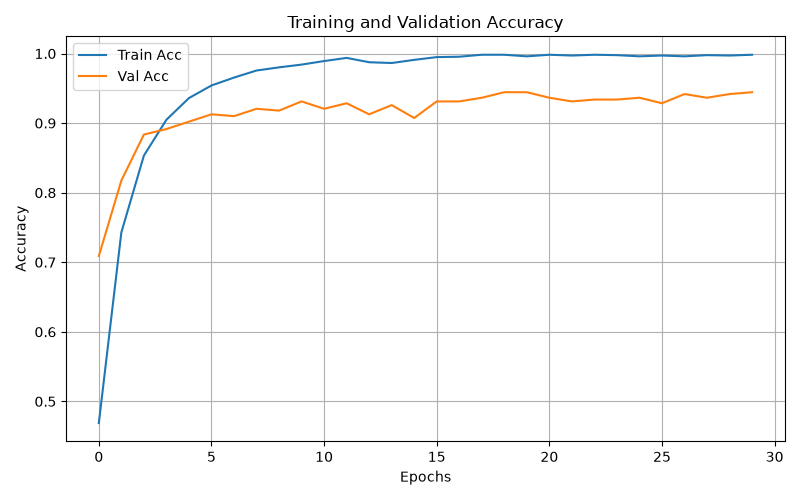
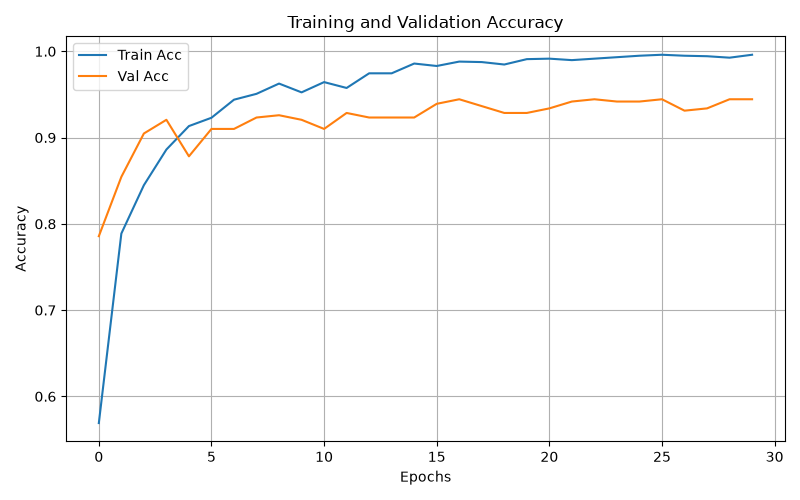
Add seeded training runs and MLflow registry champion promotion; sync eval docs to new champion

diff --git a/main.py b/main.py
@@ -1,4 +1,5 @@
 import os
+import shutil
 import torch
 import optuna
 import torch.nn as nn
@@ -7,17 +8,40 @@ import csv
 import numpy as np
 import mlflow
 import mlflow.pytorch
+from mlflow import MlflowClient
+from mlflow.exceptions import MlflowException
 from sklearn.metrics import classification_report
 
 from hpo import build_objective
 from train import train, val_test
 from utils.visualization import plot_train_val, plot_confusion_matrix
 from utils.datasets import get_trashnet_train, get_trashnet_test, get_class_weights
+from utils.seed import set_seed
 from backend.models.resnet18 import get_model
 
 DEVICE = "cuda"       # falls back to CPU automatically if unavailable
 DATA_ROOT = "./data"
 NUM_WORKERS = 4
+SEED = 42
+REGISTRY_NAME = "trashnet-resnet18"
+CHAMPION_ALIAS = "champion"
+# Deployment file the backend/HF push actually read; only overwritten if this
+# run's test_acc beats the current champion (see promotion logic below).
+CHAMPION_CKPT = "checkpoints/best_resnet18_trashnet.pth"
+# Scratch checkpoint for this run alone — every run trains/tests against its
+# own copy so a run that doesn't win champion can't clobber the deployed one.
+RUN_CKPT = "checkpoints/_run_best.pth"
+
+# Same run-scoped-vs-champion split for the plots/log that outputs/ exposes —
+# only a promoted run's copies become the ones people actually look at.
+RUN_CM_PATH = "outputs/_run_confusion_matrix.png"
+RUN_LOSS_PATH = "outputs/_run_loss.png"
+RUN_ACC_PATH = "outputs/_run_acc.png"
+RUN_LOG_CSV = "outputs/_run_training_log.csv"
+CHAMPION_CM_PATH = "outputs/trashnet_confusion_matrix.png"
+CHAMPION_LOSS_PATH = "outputs/trashnet_loss.png"
+CHAMPION_ACC_PATH = "outputs/trashnet_acc.png"
+CHAMPION_LOG_CSV = "outputs/trashnet_training_log.csv"
 
 
 def get_predictions(model, loader, device):
@@ -41,6 +65,7 @@ def main():
     os.makedirs("outputs", exist_ok=True)
     os.makedirs("checkpoints", exist_ok=True)
 
+    set_seed(SEED)
     device = torch.device(DEVICE if torch.cuda.is_available() else "cpu")
 
     # Initial loaders to trigger the split and get class weights;
@@ -70,8 +95,11 @@ def main():
         device=device,
         data_root=DATA_ROOT,
         num_workers=NUM_WORKERS,
+        seed=SEED,
     )
-    study = optuna.create_study(direction="maximize")
+    study = optuna.create_study(
+        direction="maximize", sampler=optuna.samplers.TPESampler(seed=SEED)
+    )
     study.optimize(objective, n_trials=n_hpo_trials)
 
     print("Best HPO trial:")
@@ -81,6 +109,9 @@ def main():
     best_params = study.best_trial.params
 
     # ---- Final training with the best hyperparameters found above ----
+    # Re-seed so the final run's init/data order don't depend on how much
+    # randomness the HPO trials above consumed.
+    set_seed(SEED)
     train_loader, val_loader = get_trashnet_train(
         data_root=DATA_ROOT, batch_size=best_params["batch_size"], num_workers=NUM_WORKERS
     )
@@ -112,7 +143,7 @@ def main():
 
         # Train and validate the model
         best_val_acc = -1
-        log_file = "./outputs/trashnet_training_log.csv"
+        log_file = RUN_LOG_CSV
         with open(log_file, "w", newline="") as f:
             writer = csv.writer(f)
             writer.writerow(["epoch", "train_loss", "train_acc", "val_loss", "val_acc"])
@@ -140,13 +171,13 @@ def main():
 
                 if val_acc > best_val_acc:
                     best_val_acc = val_acc
-                    torch.save(model.state_dict(), "checkpoints/best_resnet18_trashnet.pth")
+                    torch.save(model.state_dict(), RUN_CKPT)
 
                 scheduler.step()
 
         # Test the model
         model.load_state_dict(
-            torch.load("checkpoints/best_resnet18_trashnet.pth",
+            torch.load(RUN_CKPT,
                        map_location=device,
                        weights_only=True)
         )
@@ -157,10 +188,10 @@ def main():
         DISPLAY_NAMES = {"trash": "General Waste"}
         classes = [DISPLAY_NAMES.get(c, c) for c in train_loader.dataset.classes]
         y_true, y_pred = get_predictions(model, test_loader, device)
-        cm_save_path = "./outputs/trashnet_confusion_matrix.png"
+        cm_save_path = RUN_CM_PATH
         plot_confusion_matrix(y_true, y_pred, classes, cm_save_path)
-        loss_path = "./outputs/trashnet_loss.png"
-        acc_path = "./outputs/trashnet_acc.png"
+        loss_path = RUN_LOSS_PATH
+        acc_path = RUN_ACC_PATH
         plot_train_val(load_path=log_file, loss_path=loss_path, acc_path=acc_path)
 
         print(f"\n Test Acc: {test_acc:.4f}")
@@ -174,13 +205,51 @@ def main():
         mlflow.log_artifact(cm_save_path)
         mlflow.log_artifact(loss_path)
         mlflow.log_artifact(acc_path)
-        mlflow.log_artifact("checkpoints/best_resnet18_trashnet.pth")
+        mlflow.log_artifact(RUN_CKPT)
         # MLflow 3.x's default 'pt2' serialization needs tracing/signature
         # gymnastics; serialization_format="pickle" avoids that.
         input_example = torch.randn(1, 3, 224, 224, device=device)
-        mlflow.pytorch.log_model(
+        model_info = mlflow.pytorch.log_model(
             model, name="model", input_example=input_example, serialization_format="pickle"
         )
+
+        # ---- Model registry: register this run as a new version, but only
+        # move the "champion" alias if this run's test_acc beats whoever
+        # currently holds it. The champion alias is what should get pushed
+        # to HF Hub (still a manual/separate step, see README) — this is
+        # what would have stopped an accidental downgrade like the one this
+        # project hit manually before this was automated: local-only, since
+        # mlflow.db/mlruns/ aren't synced anywhere the deployed app can read. ----
+        client = MlflowClient()
+        model_version = mlflow.register_model(model_info.model_uri, REGISTRY_NAME)
+
+        champion_acc = None
+        try:
+            champion = client.get_model_version_by_alias(REGISTRY_NAME, CHAMPION_ALIAS)
+        except MlflowException as e:
+            # Only a missing alias means "no champion yet" — anything else
+            # (DB locked, etc.) should surface instead of silently promoting.
+            if e.error_code != "INVALID_PARAMETER_VALUE":
+                raise
+        else:
+            champion_acc = client.get_run(champion.run_id).data.metrics.get("test_acc")
+
+        if champion_acc is None or test_acc > champion_acc:
+            client.set_registered_model_alias(REGISTRY_NAME, CHAMPION_ALIAS, model_version.version)
+            for run_path, champion_path in (
+                (RUN_CKPT, CHAMPION_CKPT),
+                (RUN_CM_PATH, CHAMPION_CM_PATH),
+                (RUN_LOSS_PATH, CHAMPION_LOSS_PATH),
+                (RUN_ACC_PATH, CHAMPION_ACC_PATH),
+                (RUN_LOG_CSV, CHAMPION_LOG_CSV),
+            ):
+                shutil.copyfile(run_path, champion_path)
+            print(f"Promoted v{model_version.version} to '{CHAMPION_ALIAS}' (test_acc={test_acc:.4f})")
+        else:
+            print(
+                f"v{model_version.version} (test_acc={test_acc:.4f}) did not beat "
+                f"'{CHAMPION_ALIAS}' (test_acc={champion_acc:.4f}) — alias and outputs/ left untouched"
+            )
 
 
 if __name__ == '__main__':

diff --git a/hpo.py b/hpo.py
@@ -6,6 +6,7 @@ import torch.optim as optim
 
 from train import train, val_test
 from utils.datasets import get_trashnet_train
+from utils.seed import set_seed
 from backend.models.resnet18 import get_model
 
 
@@ -17,6 +18,7 @@ def build_objective(
     device=None,
     data_root="data",
     num_workers=2,
+    seed=42,
 ):
     """
     Build an Optuna objective for fine-tuning ResNet18 on TrashNet.
@@ -40,6 +42,10 @@ def build_objective(
         lr = trial.suggest_float("lr", 1e-4, 3e-3, log=True)
         weight_decay = trial.suggest_float("weight_decay", 1e-5, 1e-2, log=True)
         batch_size = trial.suggest_categorical("batch_size", [16, 32, 64])
+
+        # Same seed every trial so comparisons isolate the hyperparameters'
+        # effect from random init/data-order noise.
+        set_seed(seed)
 
         with mlflow.start_run(run_name=f"trial-{trial.number}"):
             mlflow.log_params({

diff --git a/utils/seed.py b/utils/seed.py
@@ -1,0 +1,15 @@
+import random
+
+import numpy as np
+import torch
+
+
+def set_seed(seed=42):
+    """Seed python/numpy/torch RNGs and force cuDNN determinism, so a given
+    seed reproduces the same model init, data shuffling, and augmentation."""
+    random.seed(seed)
+    np.random.seed(seed)
+    torch.manual_seed(seed)
+    torch.cuda.manual_seed_all(seed)
+    torch.backends.cudnn.deterministic = True
+    torch.backends.cudnn.benchmark = False

diff --git a/README.md b/README.md
@@ -28,8 +28,8 @@ The system classifies waste images into six categories from the TrashNet dataset
 | Model Architecture | ResNet18 |
 | Dataset | TrashNet |
 | Classes | 6 |
-| Best Validation Accuracy | 94.4% (epoch 19/30) |
-| Test Accuracy | 92.2% (353/383 images) |
+| Best Validation Accuracy | 94.4% (epoch 17/30) |
+| Test Accuracy | 94.0% (360/383 images) |
 | Inference Latency | ~60 ms |
 
 ## Per-Class Results (test set, 383 images)
@@ -40,12 +40,12 @@ and logged as an MLflow artifact (`classification_report.json`) — see
 
 | Class | Support | Precision | Recall | F1 |
 |---|---|---|---|---|
-| cardboard | 61 | 98.3% | 95.1% | 96.7% |
-| glass | 76 | 89.7% | 92.1% | 90.9% |
-| metal | 62 | 88.2% | 96.8% | 92.3% |
-| paper | 90 | 97.6% | 90.0% | 93.7% |
-| plastic | 73 | 89.0% | 89.0% | 89.0% |
-| General Waste | 21 | 86.4% | 90.5% | 88.4% |
+| cardboard | 61 | 96.8% | 98.4% | 97.6% |
+| glass | 76 | 93.6% | 96.1% | 94.8% |
+| metal | 62 | 90.9% | 96.8% | 93.8% |
+| paper | 90 | 97.6% | 91.1% | 94.3% |
+| plastic | 73 | 92.9% | 89.0% | 90.9% |
+| General Waste | 21 | 87.0% | 95.2% | 90.9% |
 
 `General Waste` has the weakest precision and by far the fewest test examples
 (21, vs. 61-90 for the others); `plastic` has the weakest recall despite
@@ -61,13 +61,13 @@ likely help more than further loss reweighting at this point.
 
 ## Training Curves
 
-Train accuracy climbs to ~99.5% while validation accuracy plateaus around
-91-95% from epoch ~10 onward — the growing train/val gap and validation
+Train accuracy climbs to ~99.6% while validation accuracy plateaus around
+91-94% from epoch ~8 onward — the growing train/val gap and validation
 loss flattening (while training loss keeps dropping) are signs of
 overfitting on this small (~2,500 image) dataset, despite the
 augmentation (random flip/rotation) and dropout (p=0.5) already in the
 training pipeline. The checkpoint actually shipped is whichever epoch had
-the best validation accuracy (epoch 19 here), not the final epoch, so this
+the best validation accuracy (epoch 17 here), not the final epoch, so this
 doesn't directly hurt the deployed model's accuracy — but it's a signal
 that stronger augmentation, partial backbone freezing, or more data would
 likely generalize better than training longer.
@@ -275,6 +275,42 @@ mlflow ui
 
 Then open `http://localhost:5000` to compare trials by validation accuracy,
 inspect per-epoch curves, and download any run's artifacts.
+
+### Model Versioning
+
+Every final-training run is registered as a new version of the
+`trashnet-resnet18` model in MLflow's [Model
+Registry](https://mlflow.org/docs/latest/model-registry.html) (also local,
+in `./mlflow.db`). A `champion` alias tracks whichever version currently has
+the best `test_acc` — a run only takes over the alias if it beats the
+current champion, so a worse run never silently displaces a better one. When
+a run is promoted, `main.py` also copies its checkpoint *and* its
+plots/training-log (`outputs/trashnet_*`) over the previous champion's — a
+non-winning run only ever touches its own scratch copies
+(`checkpoints/_run_best.pth`, `outputs/_run_*`), never the shared files.
+
+This was added after a near-miss earlier in this project's history, where a
+fresh training run (92.2% test_acc) almost got manually pushed to Hugging
+Face Hub over a better existing checkpoint (94.3%) — nothing at the time
+checked whether the newest run was actually the best one.
+
+Pushing the champion's checkpoint to HF Hub (what the deployed app actually
+serves) is still a separate, manual step — the registry only decides
+*which* local run deserves that promotion, it doesn't reach out to HF Hub
+itself. The numbers and plots on this page reflect whatever run is
+currently both the registry's `champion` *and* what's live on HF Hub.
+
+### Reproducibility
+
+`utils/seed.py::set_seed()` fixes the `random`/`numpy`/`torch` RNGs and
+disables cuDNN's non-deterministic algorithm selection, called once before
+each HPO trial and again before the final training run. This makes repeated
+runs land on the same final `test_acc`, which is what the champion
+comparison above relies on to be meaningful. It's not full epoch-by-epoch
+determinism, though — two same-seed runs have matched on final `test_acc` in
+practice but still show slightly different per-epoch numbers, most likely
+from `DataLoader`'s `num_workers=4` worker processes not being pinned to the
+main process's seed.
 
 ---
 
